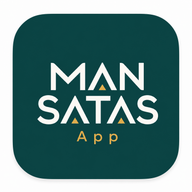
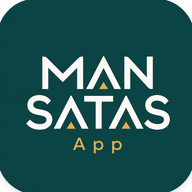
FIX

diff --git a/scripts/generate-icons.js b/scripts/generate-icons.js
@@ -14,15 +14,32 @@ const sizes = [
 ];
 
 async function generate() {
+  const metadata = await sharp(src).metadata();
+  const width = metadata.width;
+  const height = metadata.height;
+
+  // Kita potong sedikit pinggirannya (sekitar 8%) untuk menghilangkan sudut putih
+  const cropAmount = Math.floor(width * 0.08);
+  const extractArea = {
+    left: cropAmount,
+    top: cropAmount,
+    width: width - (cropAmount * 2),
+    height: height - (cropAmount * 2)
+  };
+
   for (const { name, size } of sizes) {
     const outPath = path.join(outDir, name);
     await sharp(src)
-      .resize(size, size, { fit: 'contain', background: { r: 255, g: 255, b: 255, alpha: 0 } })
+      .extract(extractArea) // Potong bagian putih di pojok
+      .resize(size, size, { 
+        fit: 'cover', // Gunakan cover agar penuh
+        background: { r: 13, g: 79, b: 74, alpha: 1 } // Background teal (#0d4f4a)
+      })
       .png()
       .toFile(outPath);
-    console.log(`✓ Generated ${name} (${size}x${size})`);
+    console.log(`✓ Regenerated ${name} (${size}x${size}) without white edges`);
   }
-  console.log('\nDone! All PWA icons generated.');
+  console.log('\nDone! Icons fixed.');
 }
 
 generate().catch(err => {

diff --git a/public/sw.js b/public/sw.js
@@ -2,7 +2,7 @@
 // Service Worker MANSATAS PWA
 // Strategy: cache-first untuk static assets, network-first untuk halaman
 
-const CACHE_NAME = 'mansatas-v2'
+const CACHE_NAME = 'mansatas-v3'
 const STATIC_ASSETS = [
   '/manifest.json',
   '/favicon-16x16.png',
